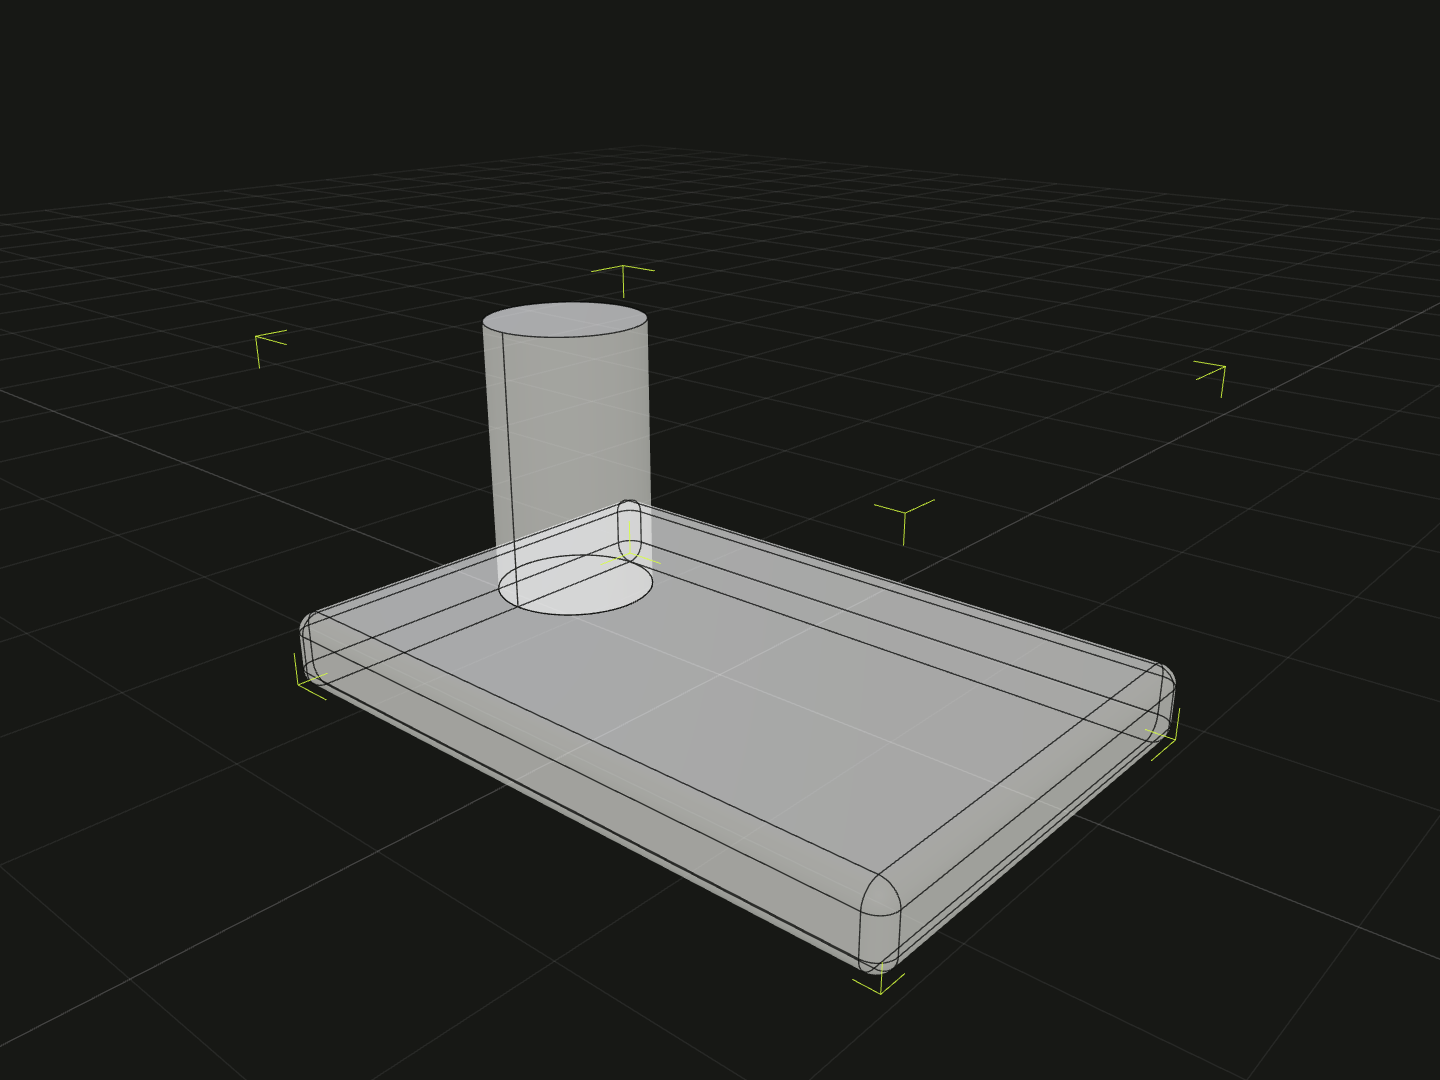
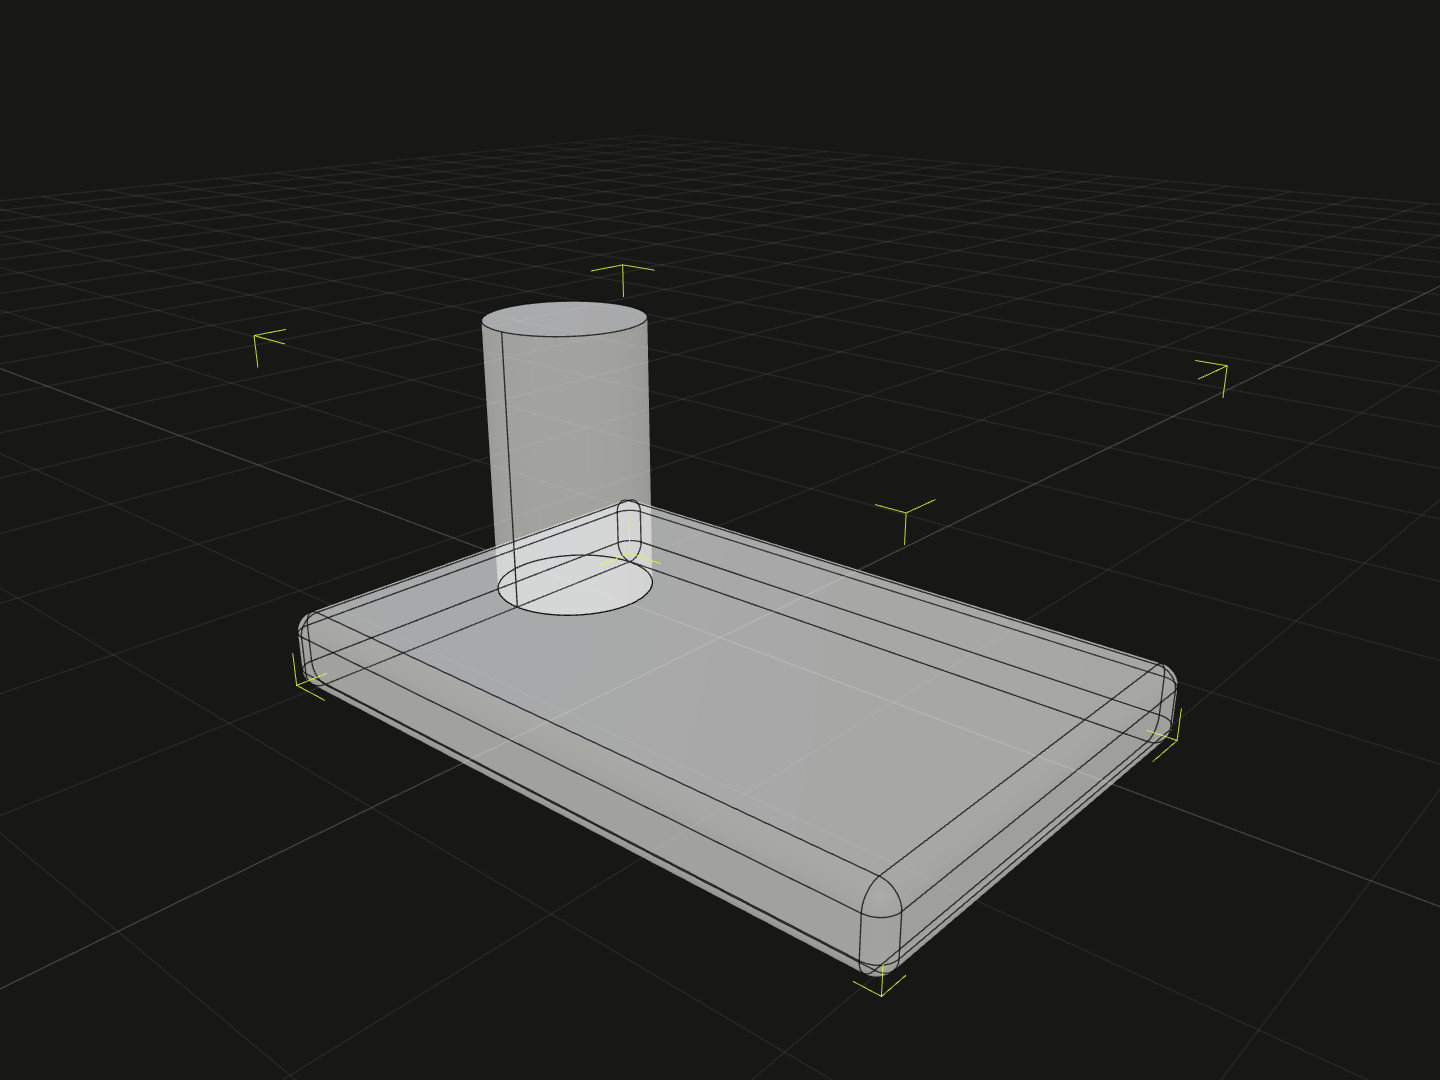
examples: assemble fixed layouts with shared origins (#57)

diff --git a/packages/app/examples/primitives.ts b/packages/app/examples/primitives.ts
@@ -15,30 +15,42 @@ const neutral = '#353a33';
 
 // Width shared by the primitive showcase base.
 const baseWidth = 36;
+const baseHeight = 4;
+const columnHeight = 14;
+const taperedHeight = 12;
+const prismHeight = 6;
+const collarHeight = 4;
+const sphereRadius = 5;
+const sphereScale = 0.8;
 
-const base = box(baseWidth, 4, 34).fillet(1).paint(neutral);
+// Put the base's top plane at local Y = 0 for the parts with known dimensions.
+const base = box(baseWidth, baseHeight, 34)
+  .fillet(1)
+  .originOffset(0, baseHeight / 2, 0)
+  .paint(neutral);
 
-const column = cylinder(4, 14)
-  .relate(part => part.on(base.up).offset(-10, 0, 0))
+const column = cylinder(4, columnHeight)
+  .originOffset(10, -columnHeight / 2, 0)
   .paint(accent);
 
-const taperedColumn = frustum(5, 3, 12)
-  .relate(part => part.on(base.up).offset(10, 0, 0))
+const taperedColumn = frustum(5, 3, taperedHeight)
+  .originOffset(-10, -taperedHeight / 2, 0)
   .paint(secondary);
 
-const prism = regularPrism(4.5, 6, 6, 30)
-  .relate(part => part.on(taperedColumn.up))
+const prism = regularPrism(4.5, prismHeight, 6, 30)
+  .originOffset(0, -(taperedHeight + prismHeight / 2), 0)
   .paint(accent);
 
-const collar = tube(5.5, 4.5, 4)
-  .relate(part => part.on(base.up).offset(-10, 0, 0))
+const collar = tube(5.5, 4.5, collarHeight)
+  .originOffset(10, -collarHeight / 2, 0)
   .paint(secondary);
 
-const scaledSphere = sphere(5)
-  .scaled(0.8)
-  .relate(part => part.center.on(base.up).offset(0, 4, 0))
+const scaledSphere = sphere(sphereRadius)
+  .scaled(sphereScale)
+  .originOffset(0, -sphereRadius * sphereScale, 0)
   .paint(secondary);
 
+// Use a relation for contact with the actual swept wire's lower bound.
 const winding = coil(5, 0.75, 4, 2.5)
   .relate(part => part.on(base.up).offset(0, 0, 10))
   .paint(accent);

diff --git a/packages/app/examples/group-origins.ts b/packages/app/examples/group-origins.ts
@@ -1,8 +1,14 @@
-import {box, group, point} from '@code3d/core';
+import {box, group} from '@code3d/core';
 
 // Put both part origins at their contact plane, then assemble directly.
-const base = box(24, 6, 14).originOffset(0, 3, 0).paint('#8ed5d1');
-const lid = box(16, 4, 10).originOffset(0, -2, 0).paint('#d9b478');
+const baseHeight = 6;
+const lidHeight = 4;
+const base = box(24, baseHeight, 14)
+  .originOffset(0, baseHeight / 2, 0)
+  .paint('#8ed5d1');
+const lid = box(16, lidHeight, 10)
+  .originOffset(0, -lidHeight / 2, 0)
+  .paint('#d9b478');
 export const direct = group([base, lid]).expose({base, lid});
 
 // Select the member's center in assembly coordinates. Drag the origin arrows
@@ -10,15 +16,12 @@ export const direct = group([base, lid]).expose({base, lid});
 export const centered = direct.originPoint(lid.center);
 export const offset = centered.originOffset(0, 2, 0);
 
-// Each nested assembly contributes its own origin. Two instances require
-// references from the intended occurrence, such as rightPart.lid.center.
-const leftPart = direct.relate(self =>
-  self.lid.center.align(point([-20, 0, 0])),
-);
-const rightPart = direct.relate(self =>
-  self.lid.center.align(point([40, 0, 0])),
-);
+// Position two copies by shifting their geometry about the shared zero point.
+// Their lid centers end up at X = -20 and X = 40; group keeps that same origin.
+const leftPart = centered.originOffset(20, 0, 0);
+const rightPart = centered.originOffset(-40, 0, 0);
 const pair = group([leftPart, rightPart]).expose({leftPart, rightPart});
+// Select the center from the intended occurrence of the repeated assembly.
 export const mounted = pair.originPoint(rightPart.lid.center);
 
 // Rotate both instances together about the selected lid center. Drag the rings

diff --git a/packages/app/render-samples/catalog.ts b/packages/app/render-samples/catalog.ts
@@ -5,11 +5,11 @@ export const renderSamples = [
     id: 'first-model',
     title: 'A place to start',
     description:
-      'A rounded base, a cylindrical post, and one relation that brings them together.',
+      'A rounded base and a cylindrical post, assembled directly at a shared origin on their contact plane.',
     category: 'The essentials',
     file: 'website/first-model.ts',
     focus: {context: 'group([base, post])', token: 'group'},
-    tags: ['box', 'cylinder', 'fillet', 'relate', 'group'],
+    tags: ['box', 'cylinder', 'fillet', 'originOffset', 'group'],
   },
   {
     id: 'fastener',
@@ -42,7 +42,7 @@ export const renderSamples = [
     category: 'Custom primitives',
     file: 'custom-primitives.ts',
     focus: {context: 'group(', token: 'group'},
-    tags: ['definePrimitive', 'replicad', '@code3d.param', 'relate'],
+    tags: ['definePrimitive', 'replicad', '@code3d.param', 'originOffset'],
   },
   {
     id: 'shell',
@@ -141,7 +141,7 @@ const firstModelContexts = [
     image: 'first-model',
     label: 'See them together',
     description:
-      'Select the group to see both parts with their relation resolved.',
+      'Select the group to see both parts assembled at their shared origin.',
     focus: {context: 'group([base, post])', token: 'group'},
   },
 ] as const;

diff --git a/packages/app/test/compiler-source-targets.test.ts b/packages/app/test/compiler-source-targets.test.ts
@@ -1300,8 +1300,11 @@ test('compiles the standalone custom primitive example with direct annotations a
   ).source;
 
   for (const [call, arguments_] of [
-    ['twistKnob(10, 3, 14)', ['radius', 'shaftRadius', 'y']],
-    ['twistKnob(10, 3, 8, 30)', ['radius', 'shaftRadius', 'y', 'twist']],
+    ['twistKnob(10, 3, tallHeight)', ['radius', 'shaftRadius', 'y']],
+    [
+      'twistKnob(10, 3, shortHeight, 30)',
+      ['radius', 'shaftRadius', 'y', 'twist'],
+    ],
   ] as const) {
     const start = source.indexOf(call);
     assert.notEqual(start, -1);
@@ -1569,7 +1572,7 @@ test('compiles the core tube example with its own operation and editable dimensi
   const source = defined(
     bundledExamples.files.find(file => file.path === rootPath),
   ).source;
-  const start = source.indexOf('tube(5.5, 4.5, 4)');
+  const start = source.indexOf('tube(5.5, 4.5, collarHeight)');
   assert.notEqual(start, -1);
   const target = module.sourceTargets.find(
     target =>

diff --git a/packages/app/examples/custom-primitives.ts b/packages/app/examples/custom-primitives.ts
@@ -64,12 +64,19 @@ export const twistKnob = definePrimitive(
   },
 );
 
-const base = box(58, 3, 28).paint('#353a33');
-const tall = twistKnob(10, 3, 14)
-  .relate(part => part.on(base.up).offset(-15, 0, 0))
+const baseHeight = 3;
+const tallHeight = 14;
+const shortHeight = 8;
+
+// The shared origin is on the base's top plane, between the two knobs.
+const base = box(58, baseHeight, 28)
+  .originOffset(0, baseHeight / 2, 0)
+  .paint('#353a33');
+const tall = twistKnob(10, 3, tallHeight)
+  .originOffset(15, -tallHeight / 2, 0)
   .paint('#d8ff3e');
-const short = twistKnob(10, 3, 8, 30)
-  .relate(part => part.on(base.up).offset(15, 0, 0))
+const short = twistKnob(10, 3, shortHeight, 30)
+  .originOffset(-15, -shortHeight / 2, 0)
   .paint('#8ed5d1');
 
 export const customPrimitivesExample = group(

diff --git a/packages/app/examples/boolean-operations.ts b/packages/app/examples/boolean-operations.ts
@@ -11,12 +11,14 @@ import {
 const accent = '#d8ff3e';
 const neutral = '#30352f';
 
-const stock = box(30, 8, 20).paint(neutral);
+const stockHeight = 8;
+const bossHeight = 6;
+const stock = box(30, stockHeight, 20).paint(neutral);
 const bore = cylinder(3, 12);
 const drilled = cut(stock, [bore]).paint(neutral);
 
-const boss = cylinder(5, 6)
-  .relate(part => part.on(drilled.up).offset(7, 0, 0))
+const boss = cylinder(5, bossHeight)
+  .originOffset(-7, -(stockHeight + bossHeight) / 2, 0)
   .paint(accent);
 const joined = union([drilled, boss]).paint(neutral);
 

diff --git a/packages/app/src/project/default-project.ts b/packages/app/src/project/default-project.ts
@@ -1,15 +1,6 @@
+import firstModelSource from '../../examples/website/first-model.ts?raw';
 import type {ModelProject} from './project';
 
-const workspaceSource = `import {box, cylinder, group} from '@code3d/core';
-
-const base = box(36, 4, 24).fillet(1);
-const post = cylinder(4, 14).relate(part =>
-  part.on(base.up).offset(-10, 0, 0),
-);
-
-group([base, post]);
-`;
-
 export const defaultProject = {
-  files: [{path: '/model.ts', source: workspaceSource}],
+  files: [{path: '/model.ts', source: firstModelSource}],
 } satisfies ModelProject;

diff --git a/packages/app/examples/website/first-model.ts b/packages/app/examples/website/first-model.ts
@@ -1,6 +1,12 @@
 import {box, cylinder, group} from '@code3d/core';
 
-const base = box(36, 4, 24).fillet(1);
-const post = cylinder(4, 14).relate(part => part.on(base.up).offset(-10, 0, 0));
+const baseHeight = 4;
+const postHeight = 14;
+
+// Share an origin on the contact plane: the base below, the post above.
+const base = box(36, baseHeight, 24)
+  .fillet(1)
+  .originOffset(0, baseHeight / 2, 0);
+const post = cylinder(4, postHeight).originOffset(10, -postHeight / 2, 0);
 
 export const model = group([base, post]);

diff --git a/packages/app/examples/topology-paths.ts b/packages/app/examples/topology-paths.ts
@@ -1,9 +1,7 @@
-import {loft, point, rectangle} from '@code3d/core';
+import {loft, rectangle} from '@code3d/core';
 
 const base = rectangle(28, 20);
-const top = rectangle(18, 12).relate(profile =>
-  profile.on(point([0, 32, 0]).up),
-);
+const top = rectangle(18, 12).originOffset(0, -32, 0);
 const body = loft([base, top]).paint('#d8ff3e');
 
 // Input 1 and input 2 each contribute their own surface 1.

diff --git a/README.md b/README.md
@@ -32,8 +32,8 @@ and follow [topology source paths](https://www.code3d.org/docs/guides/topology/)
 through derived geometry.
 
 Each model has [local coordinates](https://www.code3d.org/docs/concepts/local-coordinates/).
-Choose a vertex or center as its origin, rotate around local zero, and use
-relations to place the part in a composition. The [origin and rotation guide](https://www.code3d.org/docs/guides/origins-and-rotation/)
+Choose a shared origin to assemble parts directly with `group`, rotate around
+local zero, or use relations for geometry-based placement. The [origin and rotation guide](https://www.code3d.org/docs/guides/origins-and-rotation/)
 shows each step with the same editable source used by the App.
 
 ## Example
@@ -41,15 +41,23 @@ shows each step with the same editable source used by the App.
 ```ts
 import {box, cylinder, group} from '@code3d/core';
 
-const base = box(36, 4, 24).fillet(1);
-const post = cylinder(4, 14).relate(part => part.on(base.up).offset(-10, 0, 0));
+const baseHeight = 4;
+const postHeight = 14;
+
+// Share an origin on the contact plane: the base below, the post above.
+const base = box(36, baseHeight, 24)
+  .fillet(1)
+  .originOffset(0, baseHeight / 2, 0);
+const post = cylinder(4, postHeight).originOffset(10, -postHeight / 2, 0);
 
 export const model = group([base, post]);
 ```
 
-Place the cursor on `base`, `post`, or their relation to inspect that exact
-context. Adjust the relation interactively and Code3D writes the result back to
-the same source.
+`originOffset()` subtracts its offset from the geometry's coordinates. Here the
+base's top and the post's bottom share Y = 0, with the post at X = −10. `group`
+assembles them at their common origin. Place the cursor on `base`, `post`, or
+`originOffset` to inspect and adjust that context; Code3D writes interactive
+changes back to the same source.
 
 ## Run locally
 

diff --git a/packages/web/src/content/docs/docs/getting-started/files.md b/packages/web/src/content/docs/docs/getting-started/files.md
@@ -66,9 +66,11 @@ then use the package in a TypeScript file:
 import range from 'just-range';
 import {box, group} from '@code3d/core';
 
-const base = box(50, 4, 16);
+const baseHeight = 4;
+const postHeight = 10;
+const base = box(50, baseHeight, 16).originOffset(0, baseHeight / 2, 0);
 const posts = range(3).map(index =>
-  box(6, 10, 6).relate(part => part.on(base.up).offset((index - 1) * 16, 0, 0)),
+  box(6, postHeight, 6).originOffset((1 - index) * 16, -postHeight / 2, 0),
 );
 
 group([base, ...posts]);
